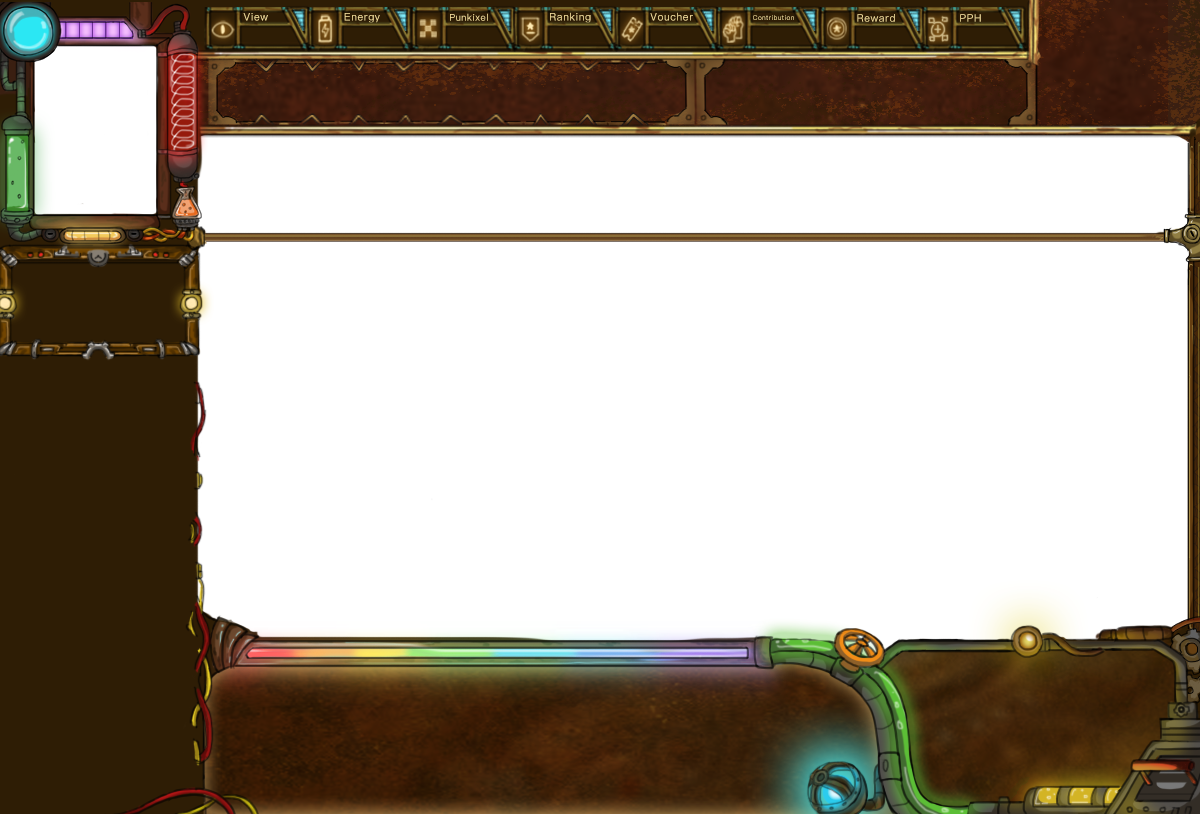
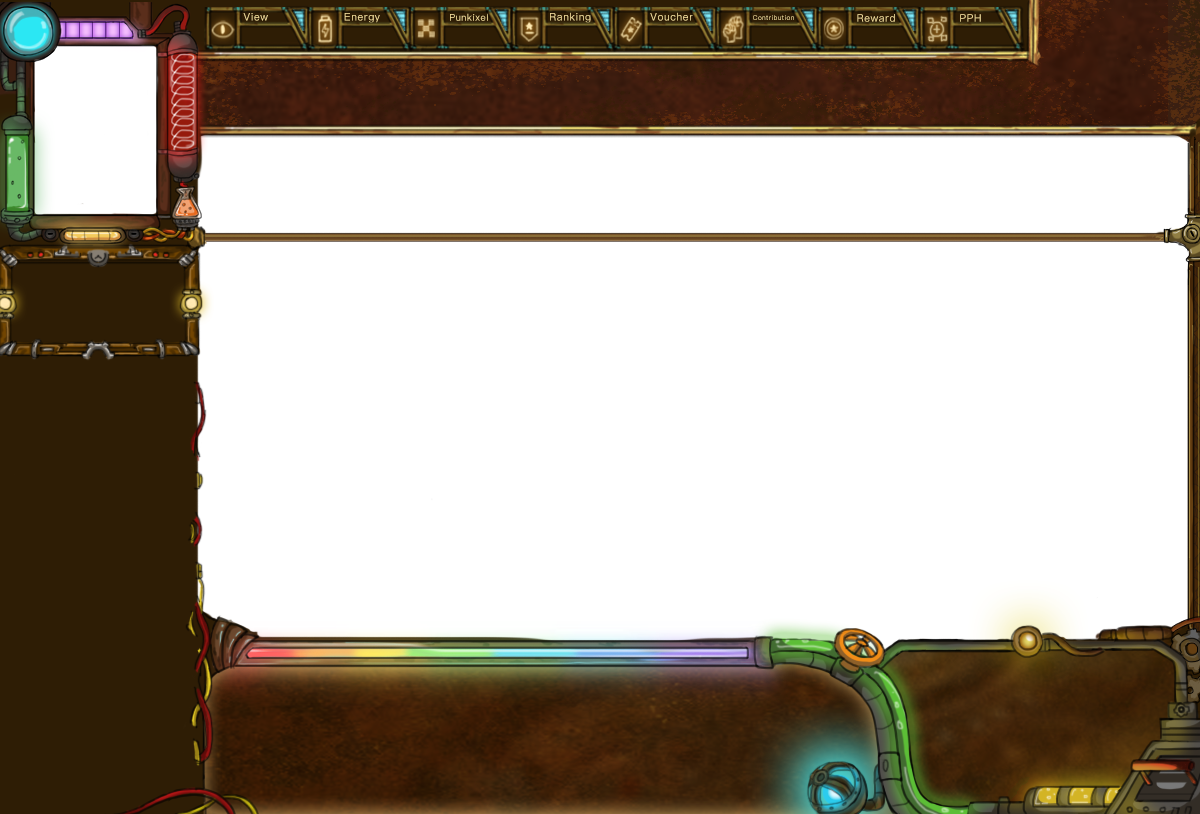
feat: add protector button for world panel

diff --git a/src/components/Component.scss b/src/components/Component.scss
@@ -24,52 +24,10 @@ div.application {
 
 
 
-.tool-bar ul li .weapon-item {
-    display: inline-block;
-}
-
-.tool-bar ul li button.right {
-    float:right;
-}
-
-.tool-bar ul li .dye-item {
-    display: inline-block;
-    border: 1px solid gray;
-    width:15px;
-    height:15px;
-}
-
-.tool-bar {
-    position: absolute;
-    top:30px;
-    height:50px;
-    background-color: #777;
-    right:0px;
-    left:208px;
-}
-
-.tool-bar ul {
-    padding:5px;
-    margin:0px;
-    border-right:1px solid gray;
-}
-
-.tool-bar ul div.dropdown {
-    display:inline;
-}
-
-
-
-.tool-bar ul li {
-    display:inline;
-    margin:5px;
-    color:white;
-}
-
 
 .main-board {
     position: absolute;
-    top:190px;
+    top:240px;
     height:400px;
     background-color: white;
     right:0px;
@@ -94,8 +52,9 @@ div.application {
 }
 .guest-info {
     position:absolute;
-    top:598px;
-    height:200px;
+    top:648px;
+    // height:200px;
+    height: 150px;
     left:208px;
     right:300px;
     background-color:white;
@@ -111,8 +70,9 @@ div.application {
 .alien-info {
     position:absolute;
     padding:10px;
-    top:598px;
-    height:200px;
+    top:648px;
+    // height:200px;
+    height: 150px;
     left:880px;
     right:0px;
     color: white;
@@ -143,37 +103,8 @@ div.application {
     border:1px solid gray;
 }
 
-.thumbnail {
-    position: absolute;
-    top:85px;
-    height:100px;
-    right:0px;
-    background-color:white;
-    left:208px;
-}
-
-.thumbnail .content {
-    margin:auto;
-    height: 100px;
-}
-
-.thumbnail .focus {
-    height:98px;
-    width:150px;
-    margin:auto;
-    border-top:1px solid white;
-    border-bottom:1px solid white;
-    border-left:5px solid white;
-    border-right:5px solid white;
-    background-size: auto 100%;
-    -webkit-filter: none;
-}
 
 
-
-.inline-brick {
-    display:inline;
-}
 
 
 
@@ -274,17 +205,4 @@ div.minion.img {
 }
 
 
-div.minion-avator {
-    display: inline-block;
-    background-color:#eee;
-    padding:2px;
-    border-radius:12px;
-}
 
-div.minion-avator img {
-    background-color:#555;
-    width:38px;
-    height:38px;
-    border: 1px solid gray;
-    border-radius: 10px;
-}

diff --git a/src/components/toolbar/ToolBarWeapon.tsx b/src/components/toolbar/ToolBarWeapon.tsx
@@ -7,34 +7,45 @@ import { individualWidth } from '../../data/draw';
 import getWorld from '../../data/world';
 import { selectViewIndex } from '../../dynamic/dynamicSlice';
 import minion from "../../sprite/ufo/ufo0.png";
-
+import './style.scss';
 export function MinionAvator() {
-    return (<div className="minion-avator"><img src={minion} className="minion-avator"></img></div>)
+  return (<div className="minion-avator"><img src={minion} className="minion-avator"></img></div>)
 }
 
 
 export function ToolBarWeapon() {
   const viewIndex = useAppSelector(selectViewIndex);
-  const minions = getWorld().getInstance(viewIndex*individualWidth).info.minions;
+  const minions = getWorld().getInstance(viewIndex * individualWidth).info.minions;
   var damage = 0;
   for (var m of minions) {
     damage += getWorld().getMinion(m).power;
   }
   return (
     <div className="tool-bar">
-        <ul>
-            <li>
-                <ul className="inline-brick">
-                    {minions.map((m) => {
-                        return <li key={getWorld().getMinion(m).id}><MinionAvator></MinionAvator></li>;
-                    })}
-                    <li> {minions.length} minions are protecting this block. </li>
-                    <li> Total Damage: {damage} </li>
-                    <li> Speed reduction: %10</li>
-                    <Contribute></Contribute>
-                </ul>
-            </li>
-        </ul>
+      <ul>
+        <li>
+          <ul className="inline-brick">
+            <div className='minionList'>
+              {minions.map((m) => {
+                return <li className='minionItem' key={getWorld().getMinion(m).id}><MinionAvator></MinionAvator></li>;
+              })}
+            </div>
+            <div className='minionDamage'>
+              <li> {minions.length} minions are protecting this block. </li>
+              <div>
+                <li> Total Damage: {damage} </li>
+                <li> Speed reduction: 10%</li>
+              </div>
+
+            </div>
+          </ul>
+          
+          <Contribute></Contribute>
+          
+        </li>
+        
+      </ul>
+      
     </div>
   );
 }

diff --git a/src/components/toolbar/style.scss b/src/components/toolbar/style.scss
@@ -1,0 +1,87 @@
+@import '../../styles/common.scss';
+
+.tool-bar ul li .weapon-item {
+    display: inline-block;
+}
+div.minion-avator {
+    display: inline-block;
+    // background-color:#eee;
+    padding:2px;
+    border-radius:12px;
+}
+div.minion-avator img {
+    background-color:#555;
+    width:36px;
+    height:36px;
+    border-radius: 10px;
+}
+.tool-bar ul li button.right {
+    float: right;
+}
+
+.tool-bar ul li .dye-item {
+    display: inline-block;
+    // border: 1px solid gray;
+    width: 15px;
+    height: 15px;
+}
+
+.tool-bar {
+    position: absolute;
+    top: 30px;
+    height: 50px;
+    padding-top: 23px;
+    // background-color: #777;
+    background-color: rgba(255, 255, 255, 0);
+    right: 0px;
+    left: 208px;
+    ul {
+        padding-left: 0px;
+        padding-top: 5px;
+        margin: 0px;
+        // border-right: 1px solid gray;
+        li {
+            display: inline;
+            // margin: 5px;
+            margin-top: 5px;
+            color: white;
+        }
+    }
+    ul div.dropdown {
+        display: inline;
+    }
+    .inline-brick {
+        height: 69px;
+        width: 832px;
+        background-image: url('../../images/world/toolbar.png');
+    
+        .minionList {
+            float: left;
+            margin-top: 10px;
+            margin-left: 12px;
+            display: inline;
+            .minionItem{
+                padding-left: 5px;
+                width: 44px;
+                height: 44px;
+            }
+            // .minionItem:first-child{
+            //     margin-left: 0px;
+            // }
+        }
+        .minionDamage{
+            float: right;
+            // margin-left: 400px;
+            margin-top: 6px;
+            font-weight: bold;
+            font-size: 14px;
+            width: 320px;
+            // display: inline;
+            li {
+                color: $fontcolor;
+            }
+        }
+    
+    }
+}
+

diff --git a/src/modals/contribute.tsx b/src/modals/contribute.tsx
@@ -8,7 +8,8 @@ import { addEvent, selectViewIndex, signalPlaceMinion } from "../dynamic/dynamic
 import { ProtectingEvent } from "../dynamic/event";
 import getWorld from "../data/world";
 
-
+import PROTECT from '../images/world/protect_btn.png';
+import './style.scss';
 export default function Contribute() {
   const [show, setShow] = useState(false);
   const [minionId, setMinionId] = useState<string|null>(null);
@@ -27,10 +28,12 @@ export default function Contribute() {
   return (
 
     <>
-      <Button variant="primary" onClick={handleShow} className="right">
+      {/* <Button variant="primary" onClick={handleShow} className="right">
         Protect This Block
-      </Button>
-
+      </Button> */}
+      <button className="protect_btn" onClick={handleShow}>
+        <img src={PROTECT} ></img>
+      </button>
       <Modal show={show} onHide={handleClose} centered>
         <Modal.Header closeButton>
           <Modal.Title>Pick a minion to protect this block?</Modal.Title>

diff --git a/src/components/Thumbnail/index.tsx b/src/components/Thumbnail/index.tsx
@@ -1,12 +1,12 @@
 import React, { useState, useRef, useEffect } from 'react';
-import { useAppSelector, useAppDispatch } from '../app/hooks';
-import { toDyeColor } from '../data/palette';
+import { useAppSelector, useAppDispatch } from '../../app/hooks';
+import { toDyeColor } from '../../data/palette';
 import {
     individualWidth,
-} from "../data/draw"
-import { selectSketchSignal, selectViewIndex } from '../dynamic/dynamicSlice';
-import getWorld from '../data/world';
-
+} from "../../data/draw"
+import { selectSketchSignal, selectViewIndex } from '../../dynamic/dynamicSlice';
+import getWorld from '../../data/world';
+import './style.scss';
 export function Thumbnail() {
   let ratio = 1;
 

diff --git a/src/components/Thumbnail/style.scss b/src/components/Thumbnail/style.scss
@@ -1,0 +1,27 @@
+@import '../Component.scss';
+.thumbnail {
+    position: absolute;
+    top:135px;
+    height:100px;
+    right:0px;
+    z-index: -1;
+    background-color:white;
+    left:208px;
+}
+
+.thumbnail .content {
+    margin:auto;
+    height: 100px;
+}
+
+.thumbnail .focus {
+    height:98px;
+    width:150px;
+    margin:auto;
+    border-top:1px solid white;
+    border-bottom:1px solid white;
+    border-left:5px solid white;
+    border-right:5px solid white;
+    background-size: auto 100%;
+    -webkit-filter: none;
+}

diff --git a/src/components/toolbar/ToolBarDye.tsx b/src/components/toolbar/ToolBarDye.tsx
@@ -3,7 +3,7 @@ import { useAppSelector, useAppDispatch } from '../../app/hooks';
 import '../Component.scss';
 import { Button, DropdownButton, Dropdown } from 'react-bootstrap';
 import 'bootstrap/dist/css/bootstrap.min.css';
-
+import './style.scss';
 import { individualWidth } from "../../data/draw";
 import {
     selectPalettes,

diff --git a/src/modals/style.scss b/src/modals/style.scss
@@ -1,0 +1,13 @@
+.protect_btn{
+    border: 0;
+    
+    margin-right: -20px;
+    margin-top: -128px;
+    float: right;
+    z-index: 100;
+    background-color: rgba(255, 255, 255, 0);
+    img{
+        width: 160px;
+        background-color: rgba(255, 255, 255, 0);
+    }
+}
